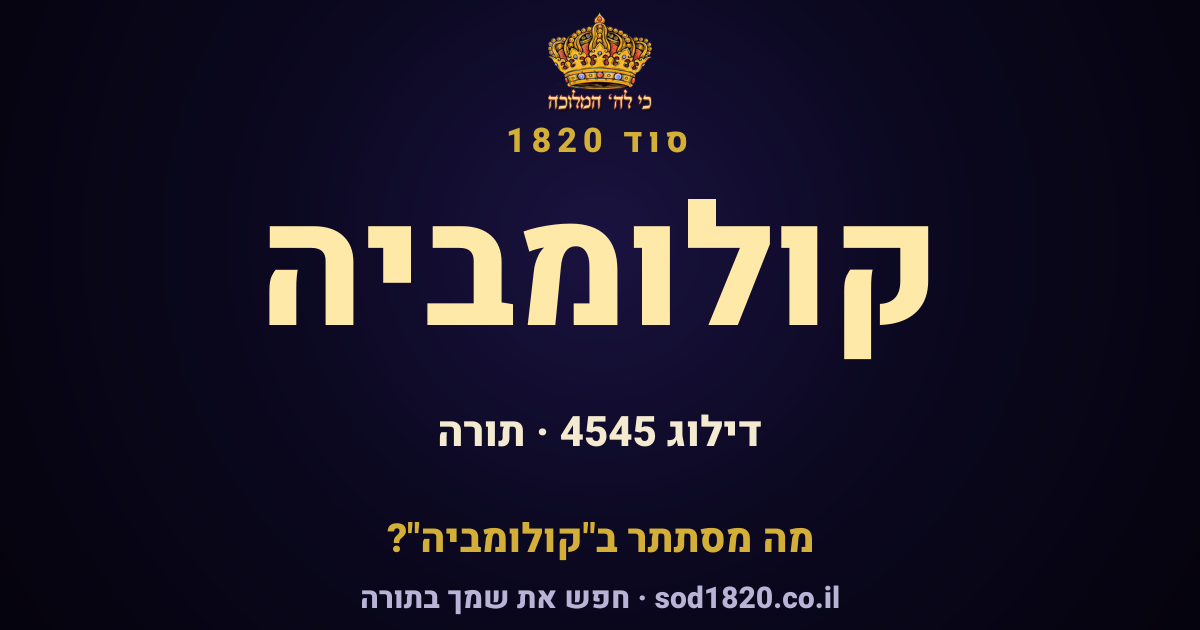
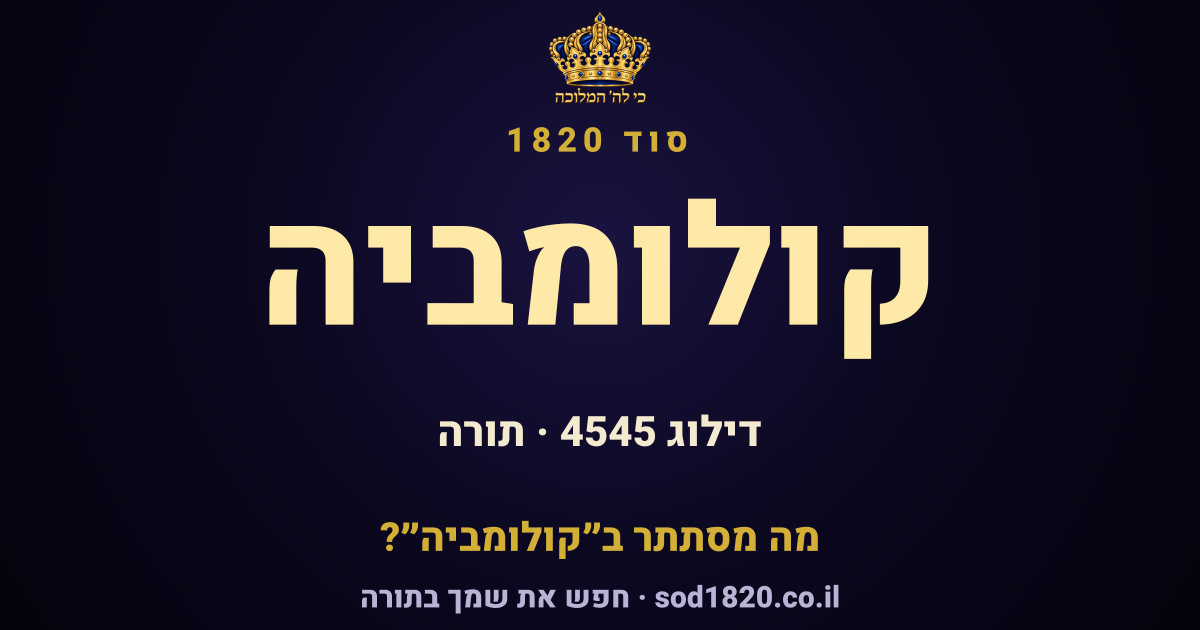
Use the approved 2029 lockup for Now and cipher cards

Changed region(s): [[0.3083, 0.8143, 0.7092, 0.8746], [0.4317, 0.0302, 0.555, 0.181], [0.3083, 0.9349, 0.6783, 0.9651]]

diff --git a/src/lib/nowPublications2029.js b/src/lib/nowPublications2029.js
@@ -1,3 +1,4 @@
+import { BRAND_LOCKUP_NAV_2029 } from "./brandAssets2029.js";
 // "Now" publications window: pure presentation projection over the EXISTING system feed rows
 // (useSystemFeed2029 -> feedRows). No network, store, ranking or second reader.
 // One publication is ONE row: identity comes from feed row ids / sourceRefs (see mergeSystemFeedItems);
@@ -54,7 +55,7 @@ const toneOf = (lenses, unverified) => unverified ? "teal" : lenses.has("message
 export const NOW_SOURCE_LOGOS = Object.freeze({
   "or-geula": Object.freeze({ src: "/brand/2029/source-logos/or-geula.webp", label: "אור הגאולה" }),
   els: Object.freeze({ src: "/brand/2029/source-logos/els.webp", label: "הצופן התנכי" }),
-  site: Object.freeze({ src: "/brand/2029/source-logos/site.webp", label: "כי לה׳ המלוכה" }),
+  site: Object.freeze({ src: BRAND_LOCKUP_NAV_2029.src, label: BRAND_LOCKUP_NAV_2029.alt }),
 });
 // OUR logos mark OUR material only (ZURIEL 6.11.2026): Or HaGeula channel, ELS findings, and posts whose public byline is the system
 // identity. A named human writer or a third-party series (e.g. מה קורה הבורא, מימד חמש, סוד החשמל) never gets a site logo: default is none.
@@ -62,6 +63,7 @@ export const NOW_SOURCE_LOGOS = Object.freeze({
 const logoKeyOf = ({ unverified, isChannel, channel, kind, isPost, isGallery, author, seriesKey }) => {
   if (unverified) return null;
   if (isGallery || (isPost && seriesKey === REALITY_MAP_LATEST_KEY)) return "site";
+  if (isChannel && channel === "site-news") return "site";
   if (isChannel && channel === "or-geula") return "or-geula";
   if (kind === "finding" || kind === "convergence") return "els";
   if (isPost && !seriesKey && publicAuthorName(author) === SYSTEM_BYLINE) return "site";

diff --git a/src/lib/brandAssets2029.js b/src/lib/brandAssets2029.js
@@ -34,6 +34,13 @@ export const BRAND_LOCKUP_HERO_2029 = Object.freeze({
   sourceSha256: BRAND_LOCKUP_2029.sha256,
 });
 
+// PNG delivery for Satori's card renderers. Approved full lockup, resized without cropping.
+export const BRAND_CARD_2029 = Object.freeze({
+  sourceSha256: BRAND_LOCKUP_2029.sha256,
+  path: "api/_assets/logo.png",
[1 lines of base64/hex data omitted]
+});
+
 // Byte-exact local delivery of the approved full square lockup for installed
 // applications. A fingerprinted URL updates the icon without changing PWA id.
 export const BRAND_APP_ICON_2029 = Object.freeze({
